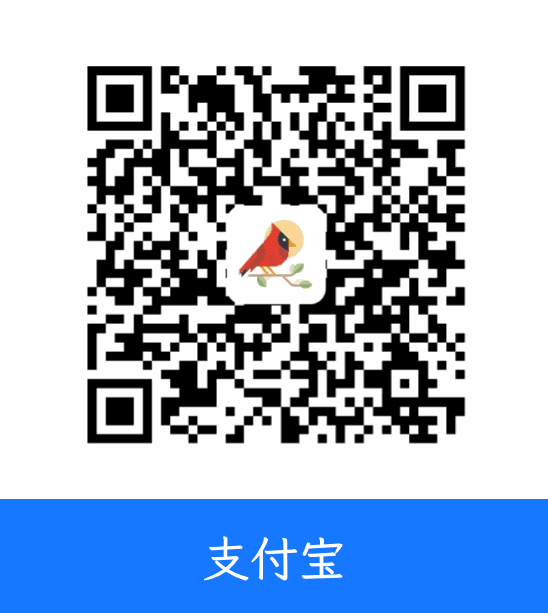
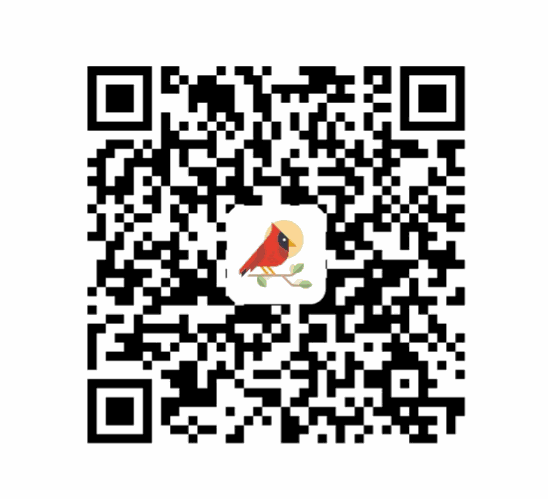
fix: move payment card labels out of the images into HTML
The 微信支付 / 支付宝 / Github Sponsors labels were pixels in the card images, so crawlers could not read them and English visitors saw Chinese. The images are cropped to the code area and the band is an HTML figcaption with the same colour and proportions, translated with the rest of the page.

diff --git a/build.css b/build.css
@@ -1,1 +1,1 @@
-*,:after,:before{--tw-border-spacing-x:0;--tw-border-spacing-y:0;--tw-translate-x:0;--tw-translate-y:0;--tw-rotate:0;--tw-skew-x:0;--tw-skew-y:0;--tw-scale-x:1;--tw-scale-y:1;--tw-pan-x: ;--tw-pan-y: ;--tw-pinch-zoom: ;--tw-scroll-snap-strictness:proximity;--tw-gradient-from-position: ;--tw-gradient-via-position: ;--tw-gradient-to-position: ;--tw-ordinal: ;--tw-slashed-zero: ;--tw-numeric-figure: ;--tw-numeric-spacing: ;--tw-numeric-fraction: ;--tw-ring-inset: ;--tw-ring-offset-width:0px;--tw-ring-offset-color:#fff;--tw-ring-color:rgba(59,130,246,.5);--tw-ring-offset-shadow:0 0 #0000;--tw-ring-shadow:0 0 #0000;--tw-shadow:0 0 #0000;--tw-shadow-colored:0 0 #0000;--tw-blur: ;--tw-brightness: ;--tw-contrast: ;--tw-grayscale: ;--tw-hue-rotate: ;--tw-invert: ;--tw-saturate: ;--tw-sepia: ;--tw-drop-shadow: ;--tw-backdrop-blur: ;--tw-backdrop-brightness: ;--tw-backdrop-contrast: ;--tw-backdrop-grayscale: ;--tw-backdrop-hue-rotate: ;--tw-backdrop-invert: ;--tw-backdrop-opacity: ;--tw-backdrop-saturate: ;--tw-backdrop-sepia: ;--tw-contain-size: ;--tw-contain-layout: ;--tw-contain-paint: ;--tw-contain-style: }::backdrop{--tw-border-spacing-x:0;--tw-border-spacing-y:0;--tw-translate-x:0;--tw-translate-y:0;--tw-rotate:0;--tw-skew-x:0;--tw-skew-y:0;--tw-scale-x:1;--tw-scale-y:1;--tw-pan-x: ;--tw-pan-y: ;--tw-pinch-zoom: ;--tw-scroll-snap-strictness:proximity;--tw-gradient-from-position: ;--tw-gradient-via-position: ;--tw-gradient-to-position: ;--tw-ordinal: ;--tw-slashed-zero: ;--tw-numeric-figure: ;--tw-numeric-spacing: ;--tw-numeric-fraction: ;--tw-ring-inset: ;--tw-ring-offset-width:0px;--tw-ring-offset-color:#fff;--tw-ring-color:rgba(59,130,246,.5);--tw-ring-offset-shadow:0 0 #0000;--tw-ring-shadow:0 0 #0000;--tw-shadow:0 0 #0000;--tw-shadow-colored:0 0 #0000;--tw-blur: ;--tw-brightness: ;--tw-contrast: ;--tw-grayscale: ;--tw-hue-rotate: ;--tw-invert: ;--tw-saturate: ;--tw-sepia: ;--tw-drop-shadow: ;--tw-backdrop-blur: ;--tw-backdrop-brightness: ;--tw-backdrop-contrast: ;--tw-backdrop-grayscale: ;--tw-backdrop-hue-rotate: ;--tw-backdrop-invert: ;--tw-backdrop-opacity: ;--tw-backdrop-saturate: ;--tw-backdrop-sepia: ;--tw-contain-size: ;--tw-contain-layout: ;--tw-contain-paint: ;--tw-contain-style: }/*! tailwindcss v3.4.19 | MIT License | https://tailwindcss.com*/*,:after,:before{border:0 solid #e5e7eb;box-sizing:border-box}:after,:before{--tw-content:""}:host,html{-webkit-text-size-adjust:100%;font-feature-settings:normal;-webkit-tap-highlight-color:transparent;font-family:ui-sans-serif,system-ui,sans-serif,Apple Color Emoji,Segoe UI Emoji,Segoe UI Symbol,Noto Color Emoji;font-variation-settings:normal;line-height:1.5;-moz-tab-size:4;-o-tab-size:4;tab-size:4}body{line-height:inherit;margin:0}hr{border-top-width:1px;color:inherit;height:0}abbr:where([title]){-webkit-text-decoration:underline dotted;text-decoration:underline dotted}h1,h2,h3,h4,h5,h6{font-size:inherit;font-weight:inherit}a{color:inherit;text-decoration:inherit}b,strong{font-weight:bolder}code,kbd,pre,samp{font-feature-settings:normal;font-family:ui-monospace,SFMono-Regular,Menlo,Monaco,Consolas,Liberation Mono,Courier New,monospace;font-size:1em;font-variation-settings:normal}small{font-size:80%}sub,sup{font-size:75%;line-height:0;position:relative;vertical-align:baseline}sub{bottom:-.25em}sup{top:-.5em}table{border-collapse:collapse;border-color:inherit;text-indent:0}button,input,optgroup,select,textarea{font-feature-settings:inherit;color:inherit;font-family:inherit;font-size:100%;font-variation-settings:inherit;font-weight:inherit;letter-spacing:inherit;line-height:inherit;margin:0;padding:0}button,select{text-transform:none}button,input:where([type=button]),input:where([type=reset]),input:where([type=submit]){-webkit-appearance:button;background-color:transparent;background-image:none}:-moz-focusring{outline:auto}:-moz-ui-invalid{box-shadow:none}progress{vertical-align:baseline}::-webkit-inner-spin-button,::-webkit-outer-spin-button{height:auto}[type=search]{-webkit-appearance:textfield;outline-offset:-2px}::-webkit-search-decoration{-webkit-appearance:none}::-webkit-file-upload-button{-webkit-appearance:button;font:inherit}summary{display:list-item}blockquote,dd,dl,figure,h1,h2,h3,h4,h5,h6,hr,p,pre{margin:0}fieldset{margin:0}fieldset,legend{padding:0}menu,ol,ul{list-style:none;margin:0;padding:0}dialog{padding:0}textarea{resize:vertical}input::-moz-placeholder,textarea::-moz-placeholder{color:#9ca3af;opacity:1}input::placeholder,textarea::placeholder{color:#9ca3af;opacity:1}[role=button],button{cursor:pointer}:disabled{cursor:default}audio,canvas,embed,iframe,img,object,svg,video{display:block;vertical-align:middle}img,video{height:auto;max-width:100%}[hidden]:where(:not([hidden=until-found])){display:none}.absolute{position:absolute}.relative{position:relative}.right-28{right:7rem}.right-6{right:1.5rem}.top-8{top:2rem}.z-10{z-index:10}.-m-4{margin:-1rem}.mx-auto{margin-left:auto;margin-right:auto}.my-4{margin-bottom:1rem;margin-top:1rem}.-mt-2{margin-top:-.5rem}.mt-2{margin-top:.5rem}.mt-4{margin-top:1rem}.mt-8{margin-top:2rem}.block{display:block}.flex{display:flex}.hidden{display:none}.w-1\/2{width:50%}.w-20{width:5rem}.w-full{width:100%}.transform{transform:translate(var(--tw-translate-x),var(--tw-translate-y)) rotate(var(--tw-rotate)) skewX(var(--tw-skew-x)) skewY(var(--tw-skew-y)) scaleX(var(--tw-scale-x)) scaleY(var(--tw-scale-y))}.resize{resize:both}.flex-col{flex-direction:column}.flex-wrap{flex-wrap:wrap}.items-start{align-items:flex-start}.items-center{align-items:center}.justify-end{justify-content:flex-end}.justify-center{justify-content:center}.overflow-hidden{overflow:hidden}.overflow-x-hidden{overflow-x:hidden}.whitespace-nowrap{white-space:nowrap}.rounded-full{border-radius:9999px}.rounded-lg{border-radius:.5rem}.rounded-xl{border-radius:.75rem}.border-4{border-width:4px}.bg-white{--tw-bg-opacity:1;background-color:rgb(255 255 255/var(--tw-bg-opacity,1))}.object-cover{-o-object-fit:cover;object-fit:cover}.p-4{padding:1rem}.px-2{padding-left:.5rem;padding-right:.5rem}.px-4{padding-left:1rem;padding-right:1rem}.px-6{padding-left:1.5rem;padding-right:1.5rem}.py-2{padding-bottom:.5rem;padding-top:.5rem}.pb-6{padding-bottom:1.5rem}.pt-0{padding-top:0}.pt-10{padding-top:2.5rem}.pt-4{padding-top:1rem}.text-left{text-align:left}.text-center{text-align:center}.text-2xl{font-size:1.5rem;line-height:2rem}.text-7xl{font-size:4.5rem;line-height:1}.tracking-widest{letter-spacing:.1em}.text-gray-600{--tw-text-opacity:1;color:rgb(75 85 99/var(--tw-text-opacity,1))}.text-white{--tw-text-opacity:1;color:rgb(255 255 255/var(--tw-text-opacity,1))}.shadow-lg{--tw-shadow:0 10px 15px -3px rgba(0,0,0,.1),0 4px 6px -4px rgba(0,0,0,.1);--tw-shadow-colored:0 10px 15px -3px var(--tw-shadow-color),0 4px 6px -4px var(--tw-shadow-color);box-shadow:var(--tw-ring-offset-shadow,0 0 #0000),var(--tw-ring-shadow,0 0 #0000),var(--tw-shadow)}.transition{transition-duration:.15s;transition-property:color,background-color,border-color,text-decoration-color,fill,stroke,opacity,box-shadow,transform,filter,backdrop-filter;transition-timing-function:cubic-bezier(.4,0,.2,1)}.duration-300{transition-duration:.3s}.ease-in-out{transition-timing-function:cubic-bezier(.4,0,.2,1)}html[data-lang=en] .zh,html[data-lang=zh] .en{display:none!important}body{font-display:swap;font-family:TsangerJinKai02,STKaiti,KaiTi,-apple-system,BlinkMacSystemFont,Segoe UI,Roboto,Helvetica Neue,Arial,sans-serif,Apple Color Emoji,Segoe UI Emoji}.font-letter{letter-spacing:.5px;line-height:1.7}.gradient{background:linear-gradient(60deg,#36563c,#36563c)}.nav-button{z-index:100}.board-group{margin-top:32px;text-align:center}.board-group h3{color:#3d3d3a;font:600 20px/1.4 -apple-system,BlinkMacSystemFont,Segoe UI,PingFang SC,Microsoft YaHei,sans-serif;letter-spacing:0;margin:0 0 24px}.board li a{align-items:center;color:#504e49;display:flex;flex-direction:column;gap:8px}.board li a:hover{color:#36563c}.board li span{text-wrap:balance;font:12px/1.4 -apple-system,BlinkMacSystemFont,Segoe UI,PingFang SC,Microsoft YaHei,sans-serif;letter-spacing:0;max-width:100%;overflow-wrap:break-word}.board img{background:#f1eee5;display:block;height:64px;-o-object-fit:cover;object-fit:cover;width:64px}.companies{display:flex;flex-wrap:wrap;gap:24px 40px;justify-content:center}.companies img{border-radius:14px}.companies li span{font-size:13px;font-weight:600}.people{display:grid;gap:24px 8px;grid-template-columns:repeat(auto-fill,minmax(96px,1fr));margin:0 auto;max-width:1000px}.people img{border-radius:50%}.people .active img{box-shadow:0 0 0 2px #fff,0 0 0 4px #fac965}.friends{display:flex;flex-wrap:wrap;font:14px/1.6 -apple-system,BlinkMacSystemFont,Segoe UI,PingFang SC,Microsoft YaHei,sans-serif;gap:6px 18px;justify-content:center;letter-spacing:0;margin:0 auto;max-width:960px}.friends span{color:#6b6a64;color:color-mix(in srgb,#6b6a64 calc(var(--age)*100%),#3d3d3a)}@media (max-width:767px){.cats-row{display:grid;gap:16px;grid-template-columns:repeat(2,minmax(0,1fr));width:100%}.cats-row img{margin-top:32px}.board-group h3{font-size:18px;margin-bottom:18px}.board img{height:48px;width:48px}.people{gap:18px 4px;grid-template-columns:repeat(auto-fill,minmax(84px,1fr))}.friends{font-size:13px;gap:4px 14px}}.hover\:scale-105:hover{--tw-scale-x:1.05;--tw-scale-y:1.05;transform:translate(var(--tw-translate-x),var(--tw-translate-y)) rotate(var(--tw-rotate)) skewX(var(--tw-skew-x)) skewY(var(--tw-skew-y)) scaleX(var(--tw-scale-x)) scaleY(var(--tw-scale-y))}.focus\:outline-none:focus{outline:2px solid transparent;outline-offset:2px}@media (min-width:640px){.sm\:overflow-x-auto{overflow-x:auto}.sm\:overflow-y-hidden{overflow-y:hidden}.sm\:px-8{padding-left:2rem;padding-right:2rem}}@media (min-width:768px){.md\:-mt-48{margin-top:-12rem}.md\:ml-12{margin-left:3rem}.md\:mr-4{margin-right:1rem}.md\:mt-0{margin-top:0}.md\:mt-8{margin-top:2rem}.md\:block{display:block}.md\:w-1\/3{width:33.333333%}.md\:w-1\/4{width:25%}.md\:w-2\/5{width:40%}.md\:w-3\/5{width:60%}.md\:flex-row{flex-direction:row}.md\:justify-end{justify-content:flex-end}.md\:overflow-x-hidden{overflow-x:hidden}.md\:whitespace-nowrap{white-space:nowrap}.md\:p-6{padding:1.5rem}.md\:p-8{padding:2rem}.md\:px-12{padding-left:3rem;padding-right:3rem}.md\:px-6{padding-left:1.5rem;padding-right:1.5rem}.md\:pb-0{padding-bottom:0}.md\:text-left{text-align:left}.md\:text-3xl{font-size:1.875rem;line-height:2.25rem}}@media (min-width:1024px){.lg\:right-32{right:8rem}.lg\:right-8{right:2rem}.lg\:top-12{top:3rem}.lg\:-mt-40{margin-top:-10rem}.lg\:mt-16{margin-top:4rem}.lg\:w-full{width:100%}.lg\:px-12{padding-left:3rem;padding-right:3rem}.lg\:px-20{padding-left:5rem;padding-right:5rem}.lg\:pl-10{padding-left:2.5rem}.lg\:pr-0{padding-right:0}.lg\:pt-16{padding-top:4rem}.lg\:text-3xl{font-size:1.875rem;line-height:2.25rem}.lg\:text-4xl{font-size:2.25rem;line-height:2.5rem}.lg\:text-8xl{font-size:6rem;line-height:1}}@media (min-width:1280px){.xl\:right-12{right:3rem}.xl\:right-36{right:9rem}.xl\:top-12{top:3rem}.xl\:mt-0{margin-top:0}.xl\:mt-12{margin-top:3rem}.xl\:w-1\/5{width:20%}.xl\:px-12{padding-left:3rem;padding-right:3rem}}
+*,:after,:before{--tw-border-spacing-x:0;--tw-border-spacing-y:0;--tw-translate-x:0;--tw-translate-y:0;--tw-rotate:0;--tw-skew-x:0;--tw-skew-y:0;--tw-scale-x:1;--tw-scale-y:1;--tw-pan-x: ;--tw-pan-y: ;--tw-pinch-zoom: ;--tw-scroll-snap-strictness:proximity;--tw-gradient-from-position: ;--tw-gradient-via-position: ;--tw-gradient-to-position: ;--tw-ordinal: ;--tw-slashed-zero: ;--tw-numeric-figure: ;--tw-numeric-spacing: ;--tw-numeric-fraction: ;--tw-ring-inset: ;--tw-ring-offset-width:0px;--tw-ring-offset-color:#fff;--tw-ring-color:rgba(59,130,246,.5);--tw-ring-offset-shadow:0 0 #0000;--tw-ring-shadow:0 0 #0000;--tw-shadow:0 0 #0000;--tw-shadow-colored:0 0 #0000;--tw-blur: ;--tw-brightness: ;--tw-contrast: ;--tw-grayscale: ;--tw-hue-rotate: ;--tw-invert: ;--tw-saturate: ;--tw-sepia: ;--tw-drop-shadow: ;--tw-backdrop-blur: ;--tw-backdrop-brightness: ;--tw-backdrop-contrast: ;--tw-backdrop-grayscale: ;--tw-backdrop-hue-rotate: ;--tw-backdrop-invert: ;--tw-backdrop-opacity: ;--tw-backdrop-saturate: ;--tw-backdrop-sepia: ;--tw-contain-size: ;--tw-contain-layout: ;--tw-contain-paint: ;--tw-contain-style: }::backdrop{--tw-border-spacing-x:0;--tw-border-spacing-y:0;--tw-translate-x:0;--tw-translate-y:0;--tw-rotate:0;--tw-skew-x:0;--tw-skew-y:0;--tw-scale-x:1;--tw-scale-y:1;--tw-pan-x: ;--tw-pan-y: ;--tw-pinch-zoom: ;--tw-scroll-snap-strictness:proximity;--tw-gradient-from-position: ;--tw-gradient-via-position: ;--tw-gradient-to-position: ;--tw-ordinal: ;--tw-slashed-zero: ;--tw-numeric-figure: ;--tw-numeric-spacing: ;--tw-numeric-fraction: ;--tw-ring-inset: ;--tw-ring-offset-width:0px;--tw-ring-offset-color:#fff;--tw-ring-color:rgba(59,130,246,.5);--tw-ring-offset-shadow:0 0 #0000;--tw-ring-shadow:0 0 #0000;--tw-shadow:0 0 #0000;--tw-shadow-colored:0 0 #0000;--tw-blur: ;--tw-brightness: ;--tw-contrast: ;--tw-grayscale: ;--tw-hue-rotate: ;--tw-invert: ;--tw-saturate: ;--tw-sepia: ;--tw-drop-shadow: ;--tw-backdrop-blur: ;--tw-backdrop-brightness: ;--tw-backdrop-contrast: ;--tw-backdrop-grayscale: ;--tw-backdrop-hue-rotate: ;--tw-backdrop-invert: ;--tw-backdrop-opacity: ;--tw-backdrop-saturate: ;--tw-backdrop-sepia: ;--tw-contain-size: ;--tw-contain-layout: ;--tw-contain-paint: ;--tw-contain-style: }/*! tailwindcss v3.4.19 | MIT License | https://tailwindcss.com*/*,:after,:before{border:0 solid #e5e7eb;box-sizing:border-box}:after,:before{--tw-content:""}:host,html{-webkit-text-size-adjust:100%;font-feature-settings:normal;-webkit-tap-highlight-color:transparent;font-family:ui-sans-serif,system-ui,sans-serif,Apple Color Emoji,Segoe UI Emoji,Segoe UI Symbol,Noto Color Emoji;font-variation-settings:normal;line-height:1.5;-moz-tab-size:4;-o-tab-size:4;tab-size:4}body{line-height:inherit;margin:0}hr{border-top-width:1px;color:inherit;height:0}abbr:where([title]){-webkit-text-decoration:underline dotted;text-decoration:underline dotted}h1,h2,h3,h4,h5,h6{font-size:inherit;font-weight:inherit}a{color:inherit;text-decoration:inherit}b,strong{font-weight:bolder}code,kbd,pre,samp{font-feature-settings:normal;font-family:ui-monospace,SFMono-Regular,Menlo,Monaco,Consolas,Liberation Mono,Courier New,monospace;font-size:1em;font-variation-settings:normal}small{font-size:80%}sub,sup{font-size:75%;line-height:0;position:relative;vertical-align:baseline}sub{bottom:-.25em}sup{top:-.5em}table{border-collapse:collapse;border-color:inherit;text-indent:0}button,input,optgroup,select,textarea{font-feature-settings:inherit;color:inherit;font-family:inherit;font-size:100%;font-variation-settings:inherit;font-weight:inherit;letter-spacing:inherit;line-height:inherit;margin:0;padding:0}button,select{text-transform:none}button,input:where([type=button]),input:where([type=reset]),input:where([type=submit]){-webkit-appearance:button;background-color:transparent;background-image:none}:-moz-focusring{outline:auto}:-moz-ui-invalid{box-shadow:none}progress{vertical-align:baseline}::-webkit-inner-spin-button,::-webkit-outer-spin-button{height:auto}[type=search]{-webkit-appearance:textfield;outline-offset:-2px}::-webkit-search-decoration{-webkit-appearance:none}::-webkit-file-upload-button{-webkit-appearance:button;font:inherit}summary{display:list-item}blockquote,dd,dl,figure,h1,h2,h3,h4,h5,h6,hr,p,pre{margin:0}fieldset{margin:0}fieldset,legend{padding:0}menu,ol,ul{list-style:none;margin:0;padding:0}dialog{padding:0}textarea{resize:vertical}input::-moz-placeholder,textarea::-moz-placeholder{color:#9ca3af;opacity:1}input::placeholder,textarea::placeholder{color:#9ca3af;opacity:1}[role=button],button{cursor:pointer}:disabled{cursor:default}audio,canvas,embed,iframe,img,object,svg,video{display:block;vertical-align:middle}img,video{height:auto;max-width:100%}[hidden]:where(:not([hidden=until-found])){display:none}.absolute{position:absolute}.relative{position:relative}.right-28{right:7rem}.right-6{right:1.5rem}.top-8{top:2rem}.z-10{z-index:10}.-m-4{margin:-1rem}.mx-auto{margin-left:auto;margin-right:auto}.my-4{margin-bottom:1rem;margin-top:1rem}.-mt-2{margin-top:-.5rem}.mt-2{margin-top:.5rem}.mt-4{margin-top:1rem}.mt-8{margin-top:2rem}.block{display:block}.flex{display:flex}.hidden{display:none}.w-1\/2{width:50%}.w-20{width:5rem}.w-full{width:100%}.transform{transform:translate(var(--tw-translate-x),var(--tw-translate-y)) rotate(var(--tw-rotate)) skewX(var(--tw-skew-x)) skewY(var(--tw-skew-y)) scaleX(var(--tw-scale-x)) scaleY(var(--tw-scale-y))}.resize{resize:both}.flex-col{flex-direction:column}.flex-wrap{flex-wrap:wrap}.items-start{align-items:flex-start}.items-center{align-items:center}.justify-end{justify-content:flex-end}.justify-center{justify-content:center}.overflow-hidden{overflow:hidden}.overflow-x-hidden{overflow-x:hidden}.whitespace-nowrap{white-space:nowrap}.rounded-full{border-radius:9999px}.rounded-xl{border-radius:.75rem}.bg-white{--tw-bg-opacity:1;background-color:rgb(255 255 255/var(--tw-bg-opacity,1))}.object-cover{-o-object-fit:cover;object-fit:cover}.p-4{padding:1rem}.px-2{padding-left:.5rem;padding-right:.5rem}.px-4{padding-left:1rem;padding-right:1rem}.px-6{padding-left:1.5rem;padding-right:1.5rem}.py-2{padding-bottom:.5rem;padding-top:.5rem}.pb-6{padding-bottom:1.5rem}.pt-0{padding-top:0}.pt-10{padding-top:2.5rem}.pt-4{padding-top:1rem}.text-left{text-align:left}.text-center{text-align:center}.text-2xl{font-size:1.5rem;line-height:2rem}.text-7xl{font-size:4.5rem;line-height:1}.tracking-widest{letter-spacing:.1em}.text-gray-600{--tw-text-opacity:1;color:rgb(75 85 99/var(--tw-text-opacity,1))}.text-white{--tw-text-opacity:1;color:rgb(255 255 255/var(--tw-text-opacity,1))}.shadow-lg{--tw-shadow:0 10px 15px -3px rgba(0,0,0,.1),0 4px 6px -4px rgba(0,0,0,.1);--tw-shadow-colored:0 10px 15px -3px var(--tw-shadow-color),0 4px 6px -4px var(--tw-shadow-color);box-shadow:var(--tw-ring-offset-shadow,0 0 #0000),var(--tw-ring-shadow,0 0 #0000),var(--tw-shadow)}.transition{transition-duration:.15s;transition-property:color,background-color,border-color,text-decoration-color,fill,stroke,opacity,box-shadow,transform,filter,backdrop-filter;transition-timing-function:cubic-bezier(.4,0,.2,1)}.duration-300{transition-duration:.3s}.ease-in-out{transition-timing-function:cubic-bezier(.4,0,.2,1)}html[data-lang=en] .zh,html[data-lang=zh] .en{display:none!important}body{font-display:swap;font-family:TsangerJinKai02,STKaiti,KaiTi,-apple-system,BlinkMacSystemFont,Segoe UI,Roboto,Helvetica Neue,Arial,sans-serif,Apple Color Emoji,Segoe UI Emoji}.font-letter{letter-spacing:.5px;line-height:1.7}.gradient{background:linear-gradient(60deg,#36563c,#36563c)}.nav-button{z-index:100}.pay-card{background:var(--pay);border:4px solid var(--pay);border-radius:.5rem;container-type:inline-size;margin:0;overflow:hidden}.pay-card img{display:block;height:auto;width:100%}.pay-card figcaption{align-items:center;color:#fff;display:flex;font-size:16px;font-size:8.6cqw;height:48px;height:20.8cqw;justify-content:center;line-height:1;padding-top:.9cqw;white-space:nowrap}.board-group{margin-top:32px;text-align:center}.board-group h3{color:#3d3d3a;font:600 20px/1.4 -apple-system,BlinkMacSystemFont,Segoe UI,PingFang SC,Microsoft YaHei,sans-serif;letter-spacing:0;margin:0 0 24px}.board li a{align-items:center;color:#504e49;display:flex;flex-direction:column;gap:8px}.board li a:hover{color:#36563c}.board li span{text-wrap:balance;font:12px/1.4 -apple-system,BlinkMacSystemFont,Segoe UI,PingFang SC,Microsoft YaHei,sans-serif;letter-spacing:0;max-width:100%;overflow-wrap:break-word}.board img{background:#f1eee5;display:block;height:64px;-o-object-fit:cover;object-fit:cover;width:64px}.companies{display:flex;flex-wrap:wrap;gap:24px 40px;justify-content:center}.companies img{border-radius:14px}.companies li span{font-size:13px;font-weight:600}.people{display:grid;gap:24px 8px;grid-template-columns:repeat(auto-fill,minmax(96px,1fr));margin:0 auto;max-width:1000px}.people img{border-radius:50%}.people .active img{box-shadow:0 0 0 2px #fff,0 0 0 4px #fac965}.friends{display:flex;flex-wrap:wrap;font:14px/1.6 -apple-system,BlinkMacSystemFont,Segoe UI,PingFang SC,Microsoft YaHei,sans-serif;gap:6px 18px;justify-content:center;letter-spacing:0;margin:0 auto;max-width:960px}.friends span{color:#6b6a64;color:color-mix(in srgb,#6b6a64 calc(var(--age)*100%),#3d3d3a)}@media (max-width:767px){.cats-row{display:grid;gap:16px;grid-template-columns:repeat(2,minmax(0,1fr));width:100%}.cats-row img{margin-top:32px}.board-group h3{font-size:18px;margin-bottom:18px}.board img{height:48px;width:48px}.people{gap:18px 4px;grid-template-columns:repeat(auto-fill,minmax(84px,1fr))}.friends{font-size:13px;gap:4px 14px}}.hover\:scale-105:hover{--tw-scale-x:1.05;--tw-scale-y:1.05;transform:translate(var(--tw-translate-x),var(--tw-translate-y)) rotate(var(--tw-rotate)) skewX(var(--tw-skew-x)) skewY(var(--tw-skew-y)) scaleX(var(--tw-scale-x)) scaleY(var(--tw-scale-y))}.focus\:outline-none:focus{outline:2px solid transparent;outline-offset:2px}@media (min-width:640px){.sm\:overflow-x-auto{overflow-x:auto}.sm\:overflow-y-hidden{overflow-y:hidden}.sm\:px-8{padding-left:2rem;padding-right:2rem}}@media (min-width:768px){.md\:-mt-48{margin-top:-12rem}.md\:ml-12{margin-left:3rem}.md\:mr-4{margin-right:1rem}.md\:mt-0{margin-top:0}.md\:mt-8{margin-top:2rem}.md\:block{display:block}.md\:w-1\/3{width:33.333333%}.md\:w-1\/4{width:25%}.md\:w-2\/5{width:40%}.md\:w-3\/5{width:60%}.md\:flex-row{flex-direction:row}.md\:justify-end{justify-content:flex-end}.md\:overflow-x-hidden{overflow-x:hidden}.md\:whitespace-nowrap{white-space:nowrap}.md\:p-6{padding:1.5rem}.md\:p-8{padding:2rem}.md\:px-12{padding-left:3rem;padding-right:3rem}.md\:px-6{padding-left:1.5rem;padding-right:1.5rem}.md\:pb-0{padding-bottom:0}.md\:text-left{text-align:left}.md\:text-3xl{font-size:1.875rem;line-height:2.25rem}}@media (min-width:1024px){.lg\:right-32{right:8rem}.lg\:right-8{right:2rem}.lg\:top-12{top:3rem}.lg\:-mt-40{margin-top:-10rem}.lg\:mt-16{margin-top:4rem}.lg\:w-full{width:100%}.lg\:px-12{padding-left:3rem;padding-right:3rem}.lg\:px-20{padding-left:5rem;padding-right:5rem}.lg\:pl-10{padding-left:2.5rem}.lg\:pr-0{padding-right:0}.lg\:pt-16{padding-top:4rem}.lg\:text-3xl{font-size:1.875rem;line-height:2.25rem}.lg\:text-4xl{font-size:2.25rem;line-height:2.5rem}.lg\:text-8xl{font-size:6rem;line-height:1}}@media (min-width:1280px){.xl\:right-12{right:3rem}.xl\:right-36{right:9rem}.xl\:top-12{top:3rem}.xl\:mt-0{margin-top:0}.xl\:mt-12{margin-top:3rem}.xl\:w-1\/5{width:20%}.xl\:px-12{padding-left:3rem;padding-right:3rem}}

diff --git a/cats.html b/cats.html
@@ -199,13 +199,13 @@
         </div>
       </div>
       <div class="md:p-6 p-4 xl:w-1/5 md:w-1/4 w-1/2">
-        <img src="./assets/img/wechat-card.png" width="548" height="613" class="border-4 rounded-lg w-full" style="border-color: #1CAB1A;" alt="微信赞赏码 / WeChat tip code" />
+        <figure class="pay-card" style="--pay: #1CAB1A;"><img src="./assets/img/wechat-card.png" width="548" height="499" alt="微信赞赏码 / WeChat tip code" /><figcaption><span class="zh">微信支付</span><span class="en">WeChat Pay</span></figcaption></figure>
       </div>
       <div class="md:p-6 p-4 xl:w-1/5 md:w-1/4 w-1/2">
-        <a class="alipay-link block" data-href="https://qr.alipay.com/fkx19272a18zxc8gm1kqa5f"><img src="./assets/img/alipay-card.png" width="548" height="613" class="border-4 rounded-lg w-full" style="border-color: #1578FF;" alt="支付宝收款码 / Alipay payment code" /></a>
+        <a class="alipay-link block" data-href="https://qr.alipay.com/fkx19272a18zxc8gm1kqa5f"><figure class="pay-card" style="--pay: #1578FF;"><img src="./assets/img/alipay-card.png" width="548" height="499" alt="支付宝收款码 / Alipay payment code" /><figcaption><span class="zh">支付宝</span><span class="en">Alipay</span></figcaption></figure></a>
       </div>
       <a class="md:p-6 p-4 xl:w-1/5 md:w-1/4 w-1/2 block" href="https://github.com/sponsors/tw93" target="_blank" rel="noopener">
-        <img src="./assets/img/github-card.png" width="548" height="613" class="border-4 rounded-lg w-full" style="border-color: #261E2B;" alt="GitHub Sponsors" />
+        <figure class="pay-card" style="--pay: #261E2B;"><img src="./assets/img/github-card.png" width="548" height="499" alt="" /><figcaption>GitHub Sponsors</figcaption></figure>
       </a>
     </div>
     <div class="relative md:-mt-48 lg:-mt-40 mt-4">

diff --git a/tailwind.css b/tailwind.css
@@ -23,6 +23,30 @@ body {
   z-index: 100;
 }
 
+/* Payment cards: the label band used to be baked into each image; it is HTML now so it can be read and translated. */
+.pay-card {
+  margin: 0;
+  overflow: hidden;
+  border: 4px solid var(--pay);
+  border-radius: 0.5rem;
+  background: var(--pay);
+  container-type: inline-size;
+}
+.pay-card img { display: block; width: 100%; height: auto; }
+.pay-card figcaption {
+  display: flex;
+  align-items: center;
+  justify-content: center;
+  height: 48px;
+  height: 20.8cqw;
+  color: #fff;
+  font-size: 16px;
+  font-size: 8.6cqw;
+  line-height: 1;
+  padding-top: 0.9cqw;
+  white-space: nowrap;
+}
+
 /* Sponsor board: the same groups as assets/sponsors.svg, as HTML so it stays readable on phones and visible to search. */
 .board-group {
   margin-top: 32px;
